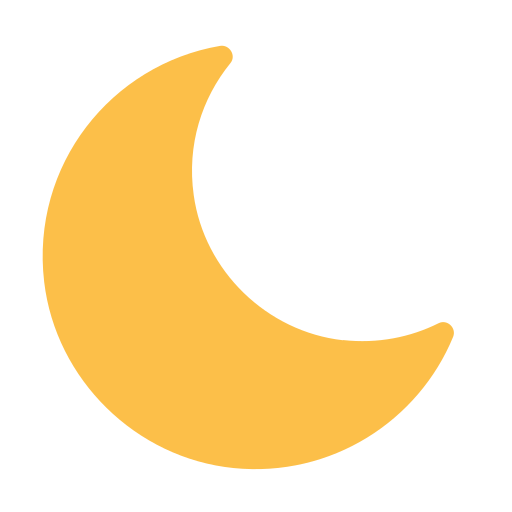
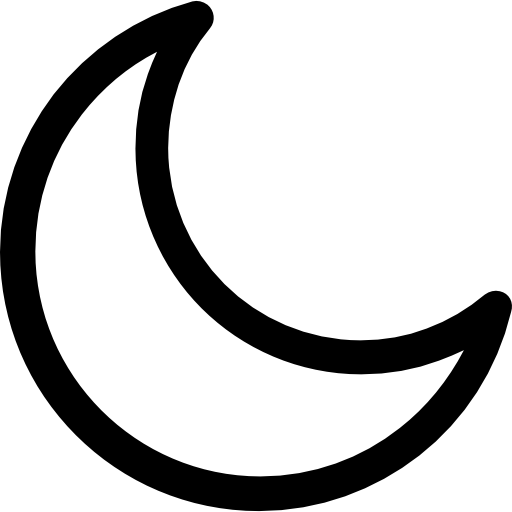
Final modifications for light mode

diff --git a/src/TechStack.jsx b/src/TechStack.jsx
@@ -1,21 +1,5 @@
 import code from './assets/light-mode/code.png'
 
-import react from './assets/common/react.png'
-import html from './assets/common/html.png'
-import css from './assets/common/css.png'
-import javascript from './assets/common/js.png'
-import figma from './assets/common/figma.png'
-
-import java from './assets/common/java.png'
-import csharp from './assets/common/c-sharp.png'
-import python from './assets/common/python.png'
-import springBoot from './assets/common/springBoot.png'
-
-import selenium from './assets/common/selenium.png'
-import cucumber from './assets/common/cucumber.png'
-
-import wordpress from './assets/common/wordpress.png'
-import wix from './assets/common/wix.png'
 
 function TechStack() {
     return (
@@ -29,82 +13,39 @@ function TechStack() {
             <p className="techEndTitle">Frontend</p>
             <div className="techEndContainer">
 
-                <div className="techLogoContainer">
-                    <img src={react} alt="react" class="techLogo"/>
-                    <p className="stackTitle">React.js</p>
-                </div>
-
-                <div className="techLogoContainer">
-                    <img src={html} alt="html" class="techLogo"/>
-                    <p className="stackTitle">HTML</p>
-                </div>
-
-                <div className="techLogoContainer">
-                    <img src={css} alt="css" class="techLogo"/>
-                    <p className="stackTitle">CSS</p>
-                </div>
-
-                <div className="techLogoContainer">
-                    <img src={javascript} alt="javascript" class="techLogo"/>
-                    <p className="stackTitle">JavaScript</p>
-                </div>
-
-                <div className="techLogoContainer">
-                    <img src={figma} alt="figma" class="techLogo"/>
-                    <p className="stackTitle">Figma</p>
-                </div>
+                <button className='techEndButton'>React.js</button>
+                <button className='techEndButton'>HTML</button>
+                <button className='techEndButton'>CSS</button>
+                <button className='techEndButton'>JavaScript</button>
+                <button className='techEndButton'>Figma</button>
+                
             </div>
 
             <p className="techEndTitle">Backend</p>
             <div className="techEndContainer">
 
-                <div className="techLogoContainer">
-                    <img src={java} alt="java" class="techLogo"/>
-                    <p className="stackTitle">Java</p>
-                </div>
-
-                <div className="techLogoContainer">
-                    <img src={csharp} alt="csharp" class="techLogo"/>
-                    <p className="stackTitle">C#</p>
-                </div>
-
-                <div className="techLogoContainer">
-                    <img src={python} alt="python" class="techLogo"/>
-                    <p className="stackTitle">Python</p>
-                </div>
-
-                <div className="techLogoContainer">
-                    <img src={springBoot} alt="springBoot" class="techLogo"/>
-                    <p className="stackTitle">Spring Boot</p>
-                </div>
+                <button className="techEndButton">Java</button>
+                <button className="techEndButton">C#</button>
+                <button className="techEndButton">Python</button>
+                <button className="techEndButton">Spring Boot</button>
+            
             </div>
 
             <p className="techEndTitle">QA Automation</p>
             <div className="techEndContainer">
-
-                <div className="techLogoContainer">
-                    <img src={selenium} alt="selenium" class="techLogo"/>
-                    <p className="stackTitle">Selenium</p>
-                </div>
-
-                <div className="techLogoContainer">
-                    <img src={cucumber} alt="cucumber" class="techLogo"/>
-                    <p className="stackTitle">Cucumber</p>
-                </div>
+                
+                <button className="techEndButton">Selenium</button>
+                <button className="techEndButton">Cucumber</button>
+                
             </div>
 
             <p className="techEndTitle">Content Management System</p>
             <div className="techEndContainer">
 
-                <div className="techLogoContainer">
-                    <img src={wordpress} alt="wordpress" class="techLogo"/>
-                    <p className="stackTitle">Wordpress</p>
-                </div>
-
-                <div className="techLogoContainer">
-                    <img src={wix} alt="wix" class="techLogo"/>
-                    <p className="stackTitle">Wix</p>
-                </div>
+                <button className="techEndButton">Wordpress</button>
+                <button className="techEndButton">Wix</button>
+                <button className="techEndButton">SEO</button>
+                
             </div>
         </div>
     )

diff --git a/src/Contacts.jsx b/src/Contacts.jsx
@@ -1,17 +1,46 @@
+import { useState } from 'react';
 import whatsapp from './assets/light-mode/whatsapp.png';
-import whatsappColored  from './assets/coloredIcons/whatsapp.png';
+import whatsappColored from './assets/coloredIcons/whatsapp.png';
 import linkedin from './assets/light-mode/linkedin.png';
+import linkedinColored from './assets/coloredIcons/linkedin.png';
 import github from './assets/light-mode/github.png';
+import githubColored from './assets/coloredIcons/github.png';
 
 function Contacts() {
+    const [whatsappIcon, setWhatsappIcon] = useState(whatsapp); 
+    const [linkedinIcon, setLinkedinIcon] = useState(linkedin);
+    const [githubIcon, setGithubIcon] = useState(github);
+
     return (
         <div className="contactsContainer">
-            <a href="https://wa.me/+639324640186" className="whatsAppLink"><img class="logo" id=" " src={whatsapp} onmouseover={whatsappColored} onMouseDown={whatsapp} alt="whatsapp" /></a>
-            <a href="https://www.linkedin.com/in/lanarosedg/" className="linkedInLink"><img class="logo" id="linkedinIcon" src={linkedin} alt="linkedin" /></a>
-            <a href="https://github.com/lanarosedg" className="githubLink"><img class="logo" id="githubIcon" src={github} alt="github" /></a>
-           
+            <a
+                href="https://wa.me/+639324640186"
+                className="whatsAppLink"
+                onMouseEnter={() => setWhatsappIcon(whatsappColored)}
+                onMouseLeave={() => setWhatsappIcon(whatsapp)}
+            >
+                <img className="logo" src={whatsappIcon} alt="whatsapp" />
+            </a>
+
+            <a 
+                href="https://www.linkedin.com/in/lanarosedg/" 
+                className="linkedInLink"
+                onMouseEnter={() => setLinkedinIcon(linkedinColored)}
+                onMouseLeave={() => setLinkedinIcon(linkedin)}
+                >
+                <img className="logo" id="linkedinIcon" src={linkedinIcon} alt="linkedin" />
+            </a>
+
+            <a 
+                href="https://github.com/lanarosedg" 
+                className="githubLink"
+                onMouseEnter={() => setGithubIcon(githubColored)}
+                onMouseLeave={() => setGithubIcon(github)}
+                >
+                <img className="logo" id="githubIcon" src={githubIcon} alt="github" />
+            </a>
         </div>
-    )
+    );
 }
 
-export default Contacts
+export default Contacts;

diff --git a/src/Projects.jsx b/src/Projects.jsx
@@ -10,25 +10,41 @@ function Projects() {
             </div>
 
                 <div className="techLinkContainer">
-                    <a href="" className="subaruAU"><img src={links} alt="links" class="logo"/></a>
+                    <a 
+                        href="https://www.partslane.com.au/" 
+                        className="subaruAU">
+                            <img src={links} alt="links" class="logoLink"/>
+                        </a>
                     <p className="linkTitle">PartsLane Subaru AU</p>
                 </div>
                 <p className="linkText">E-commerce site for Subaru Car Parts</p>
 
                 <div className="techLinkContainer">
-                    <a href="" className="toyotaSG"><img src={links} alt="links" class="logo"/></a>
+                    <a 
+                        href="https://www.partslane.com.sg/" 
+                        className="toyotaSG">
+                            <img src={links} alt="links" class="logoLink"/>
+                        </a>
                     <p className="linkTitle">PartsLane Toyota SG</p>
                 </div>
                 <p className="linkText">E-commerce site for Toyota Car Parts</p>
 
                 <div className="techLinkContainer">
-                    <a href="" className="lexusHK"><img src={links} alt="links" class="logo"/></a>
+                    <a 
+                        href="https://www.partslane.com.hk/" 
+                        className="lexusHK">
+                            <img src={links} alt="links" class="logoLink"/>
+                        </a>
                     <p className="linkTitle">PartsLane Toyota and Lexus HK</p>
                 </div>
                 <p className="linkText">E-commerce site for Toyota and Lexus Car Parts</p>
 
                 <div className="techLinkContainer">
-                    <a href="" className="bcnLink"><img src={links} alt="links" class="logo"/></a>
+                    <a 
+                        href="https://www.bcnmtpoint.com/" 
+                        className="bcnLink">
+                            <img src={links} alt="links" class="logoLink"/>
+                        </a>
                     <p className="linkTitle">BCN Montjuic Tourist Point</p>
                 </div>
                 <p className="linkText">E-commerce site for a tourist agency in <br/> Barcelona, Spain</p>

diff --git a/src/index.css b/src/index.css
@@ -7,7 +7,7 @@
 .App {
   display: grid;
   grid-template-columns: 1fr 263px 90px 495px 1fr;
-  grid-template-rows: 150px 90px 50px 40px 15px 50px 52px 41px 100px 65px 30px 330px 41px 212px 41px 365px 100px;
+  grid-template-rows: 150px 90px 50px 40px 15px 50px 52px 41px 100px 30px 222px 41px 212px 1px 365px 100px;
 }
 
 /*      */ 
@@ -88,8 +88,6 @@
   font-size: 14px;
   background-color: #E8EDFF;
   border-color: rgba(209, 219, 255, 0.2);
-  box-shadow:  10px 10px 30px #c5c9d9,
-             -10px -10px 60px #ffffff;
   border-radius: 20px; 
   cursor: pointer;
 }
@@ -152,7 +150,7 @@
   width: 481px;
   height: 280px;
   line-height: 20px;
-  gap: 10px;
+  gap: 1px;
 }
 
 .experienceTitle {
@@ -179,10 +177,9 @@
   padding-top: 15px;
   box-shadow:  20px 20px 20px #c5c9d9,
   -20px -20px 60px #ffffff;
-
   border-radius: 20px;
   width: 481px;
-  height: 530px;
+  height: 360px;
   line-height: 20px;
   gap: 10px;
 }
@@ -205,7 +202,7 @@
   display: flex;
   flex-direction: row;
   align-items: center;
-  gap: 30px;
+  gap: 20px;
   font-size: 14px;
 }
 
@@ -221,6 +218,14 @@
   gap: 2px;
 }
 
+.techEndButton {
+  border-radius: 10px;
+  border-style: solid;
+  border-color:rgba(7, 15, 43, 0.2);
+  font-size: 12px;
+}
+
+
 /*               */ 
 /*               */ 
 /* LIFE OUTSIDE  */
@@ -230,7 +235,7 @@
 .lifeOutsideContainer {
   justify-content: center;
   align-items: left;
-  grid-area: 13 / 4 / 14 / 5;
+  grid-area: 12 / 4 / 14 / 5;
   padding-left: 50px;
   padding-top: 15px;
   box-shadow:  20px 20px 20px #c5c9d9,
@@ -288,6 +293,11 @@
   gap: 10px;
   font-size: 14px;
   font-weight: bold;
+}
+
+.logoLink {
+  height: 14px;
+  width: 14px;
 }
 
 /*           */ 

diff --git a/src/Name.jsx b/src/Name.jsx
@@ -1,12 +1,21 @@
+import { useState } from 'react';
 import moon from './assets/light-mode/moon.png'
+import moonBlack from './assets/light-mode/moonBlack.png'
 import location from './assets/light-mode/location.png'
 
 function Name() {
+    const [moonIcon, setMoonIcon] = useState(moon);
+
     return(
         <div class="nameContainer">
             <p class="nameTitle">Lana Rose &nbsp;
-                <a href="" className="moonLink">
-                    <img src={moon} alt="moon" class='moonIcon'/>
+                <a 
+                    href="" 
+                    className="moonLink"
+                    onMouseEnter={() => setMoonIcon(moonBlack)}
+                    onMouseLeave={() => setMoonIcon(moon)}
+                    >
+                    <img src={moonIcon} alt="moon" class='moonIcon'/>
                 </a>
             </p>
             <p class="location">
